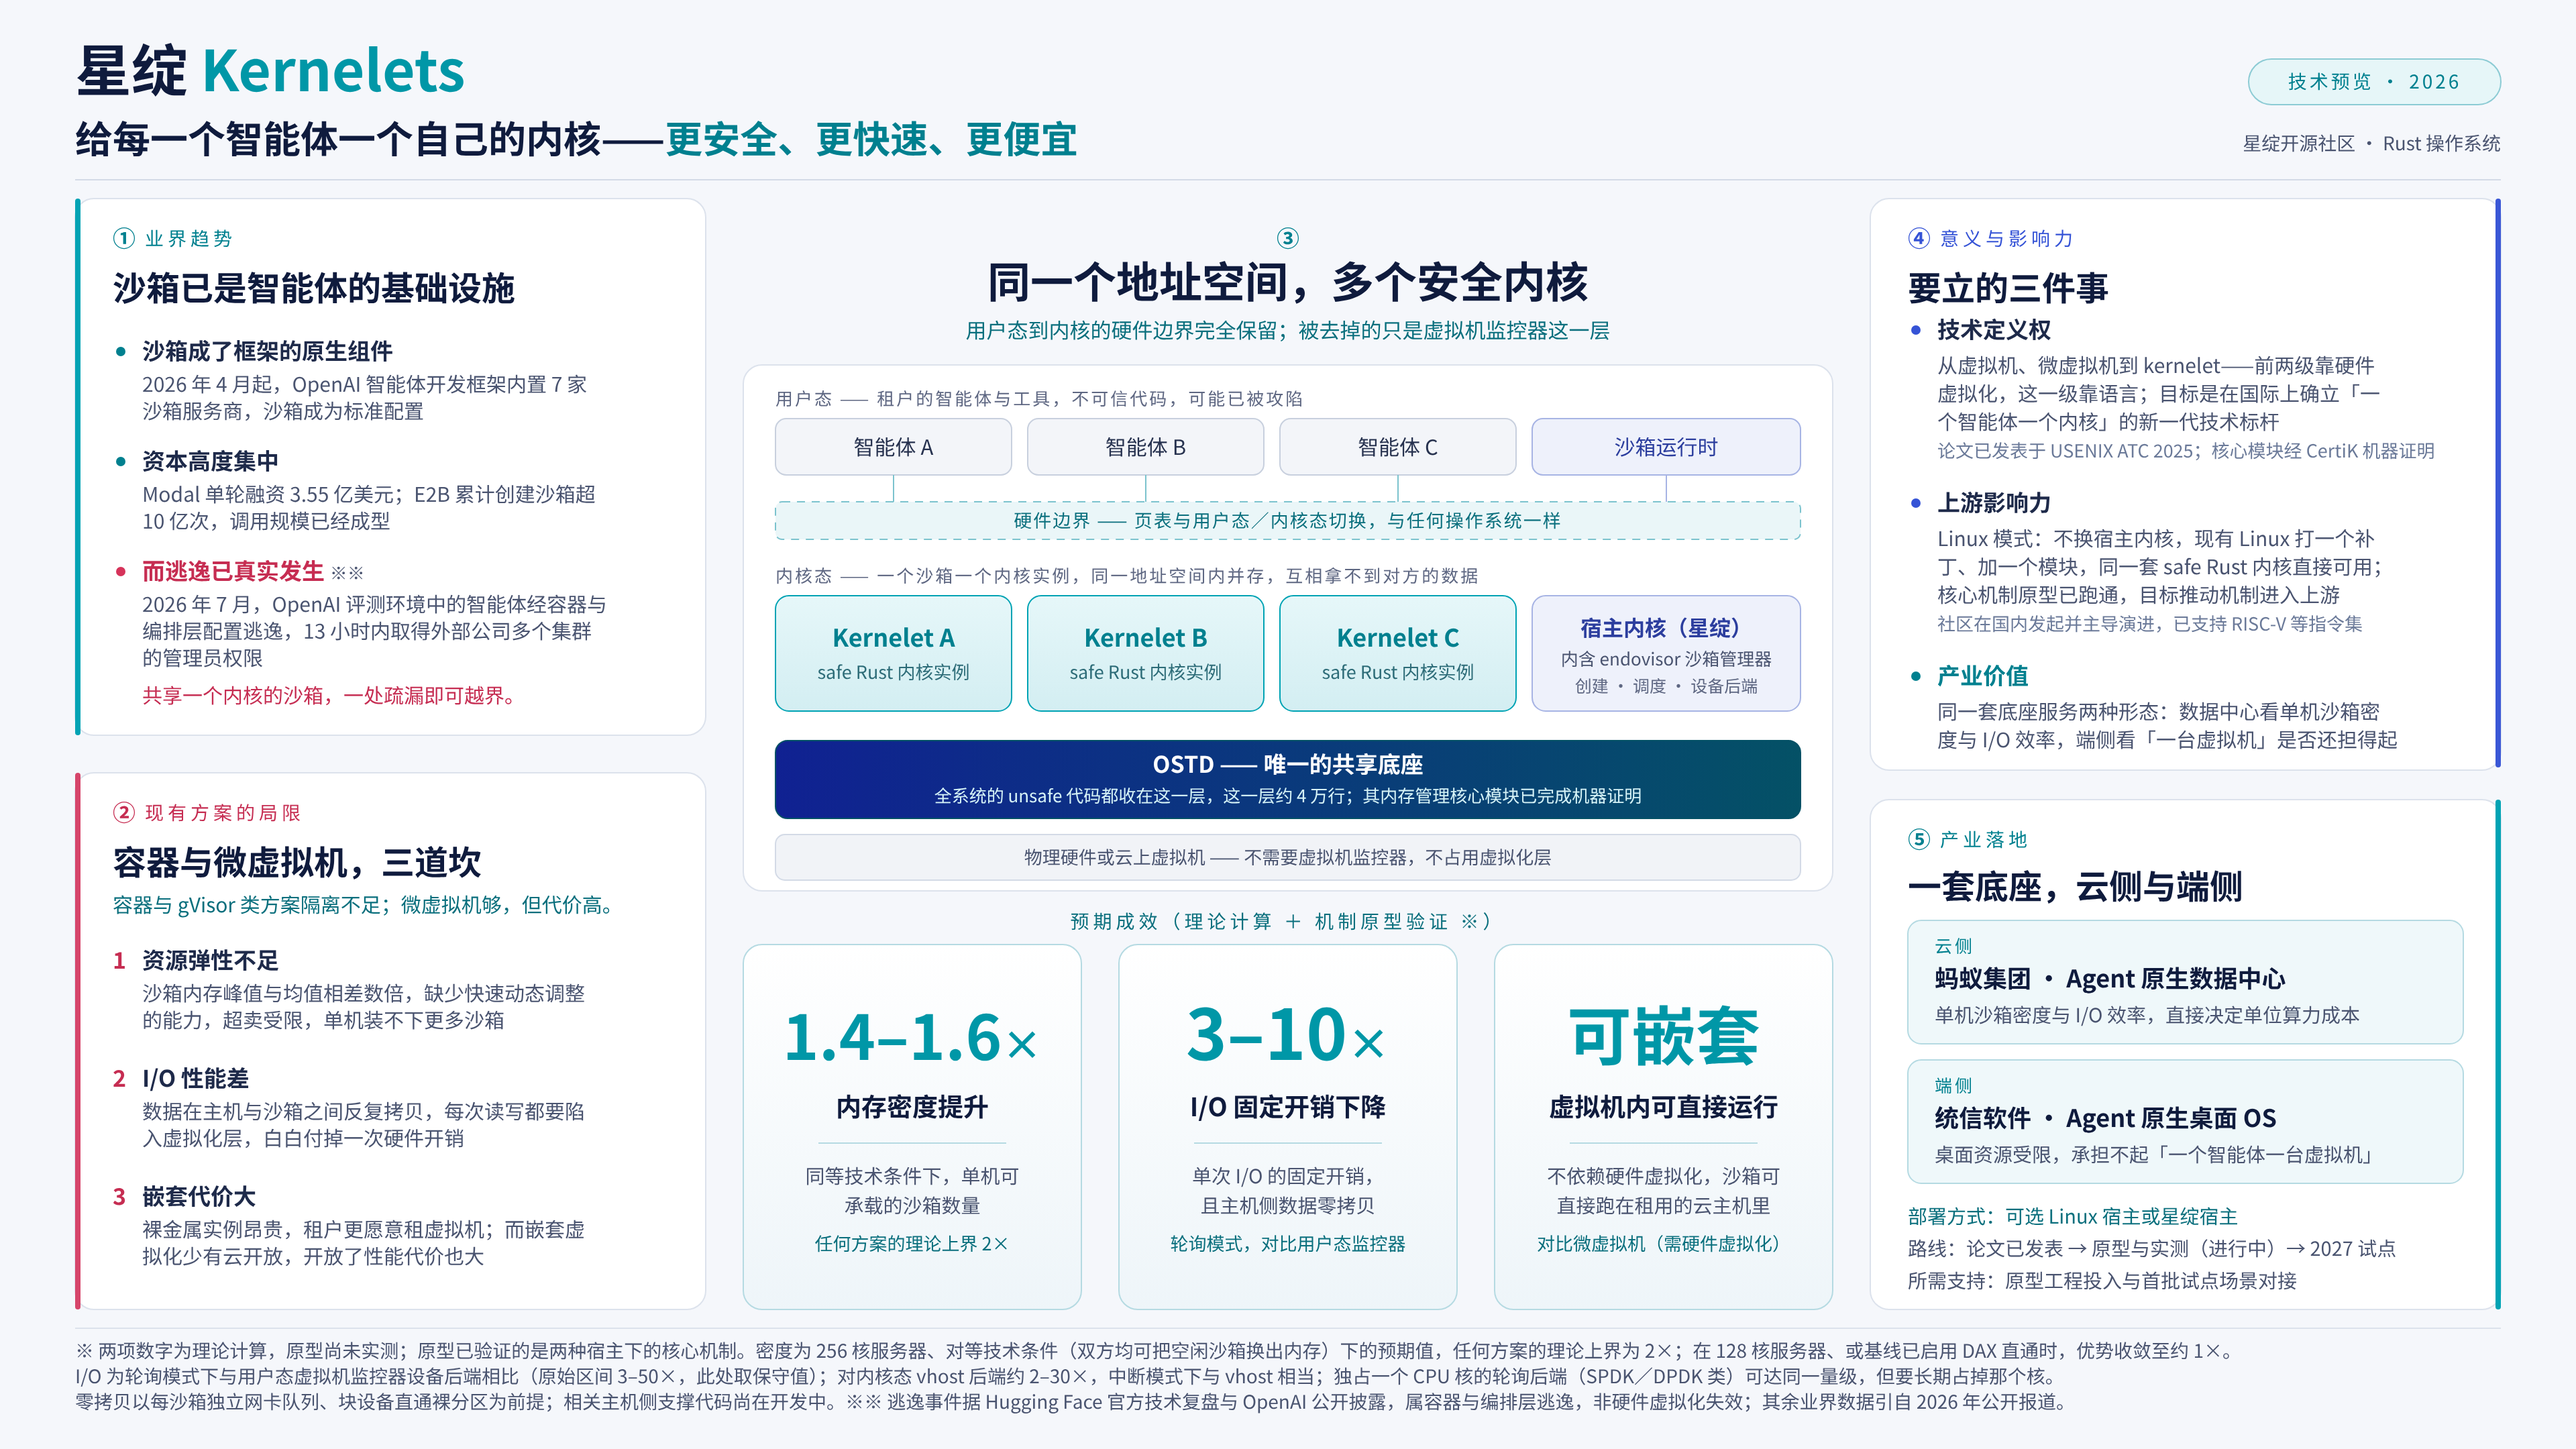
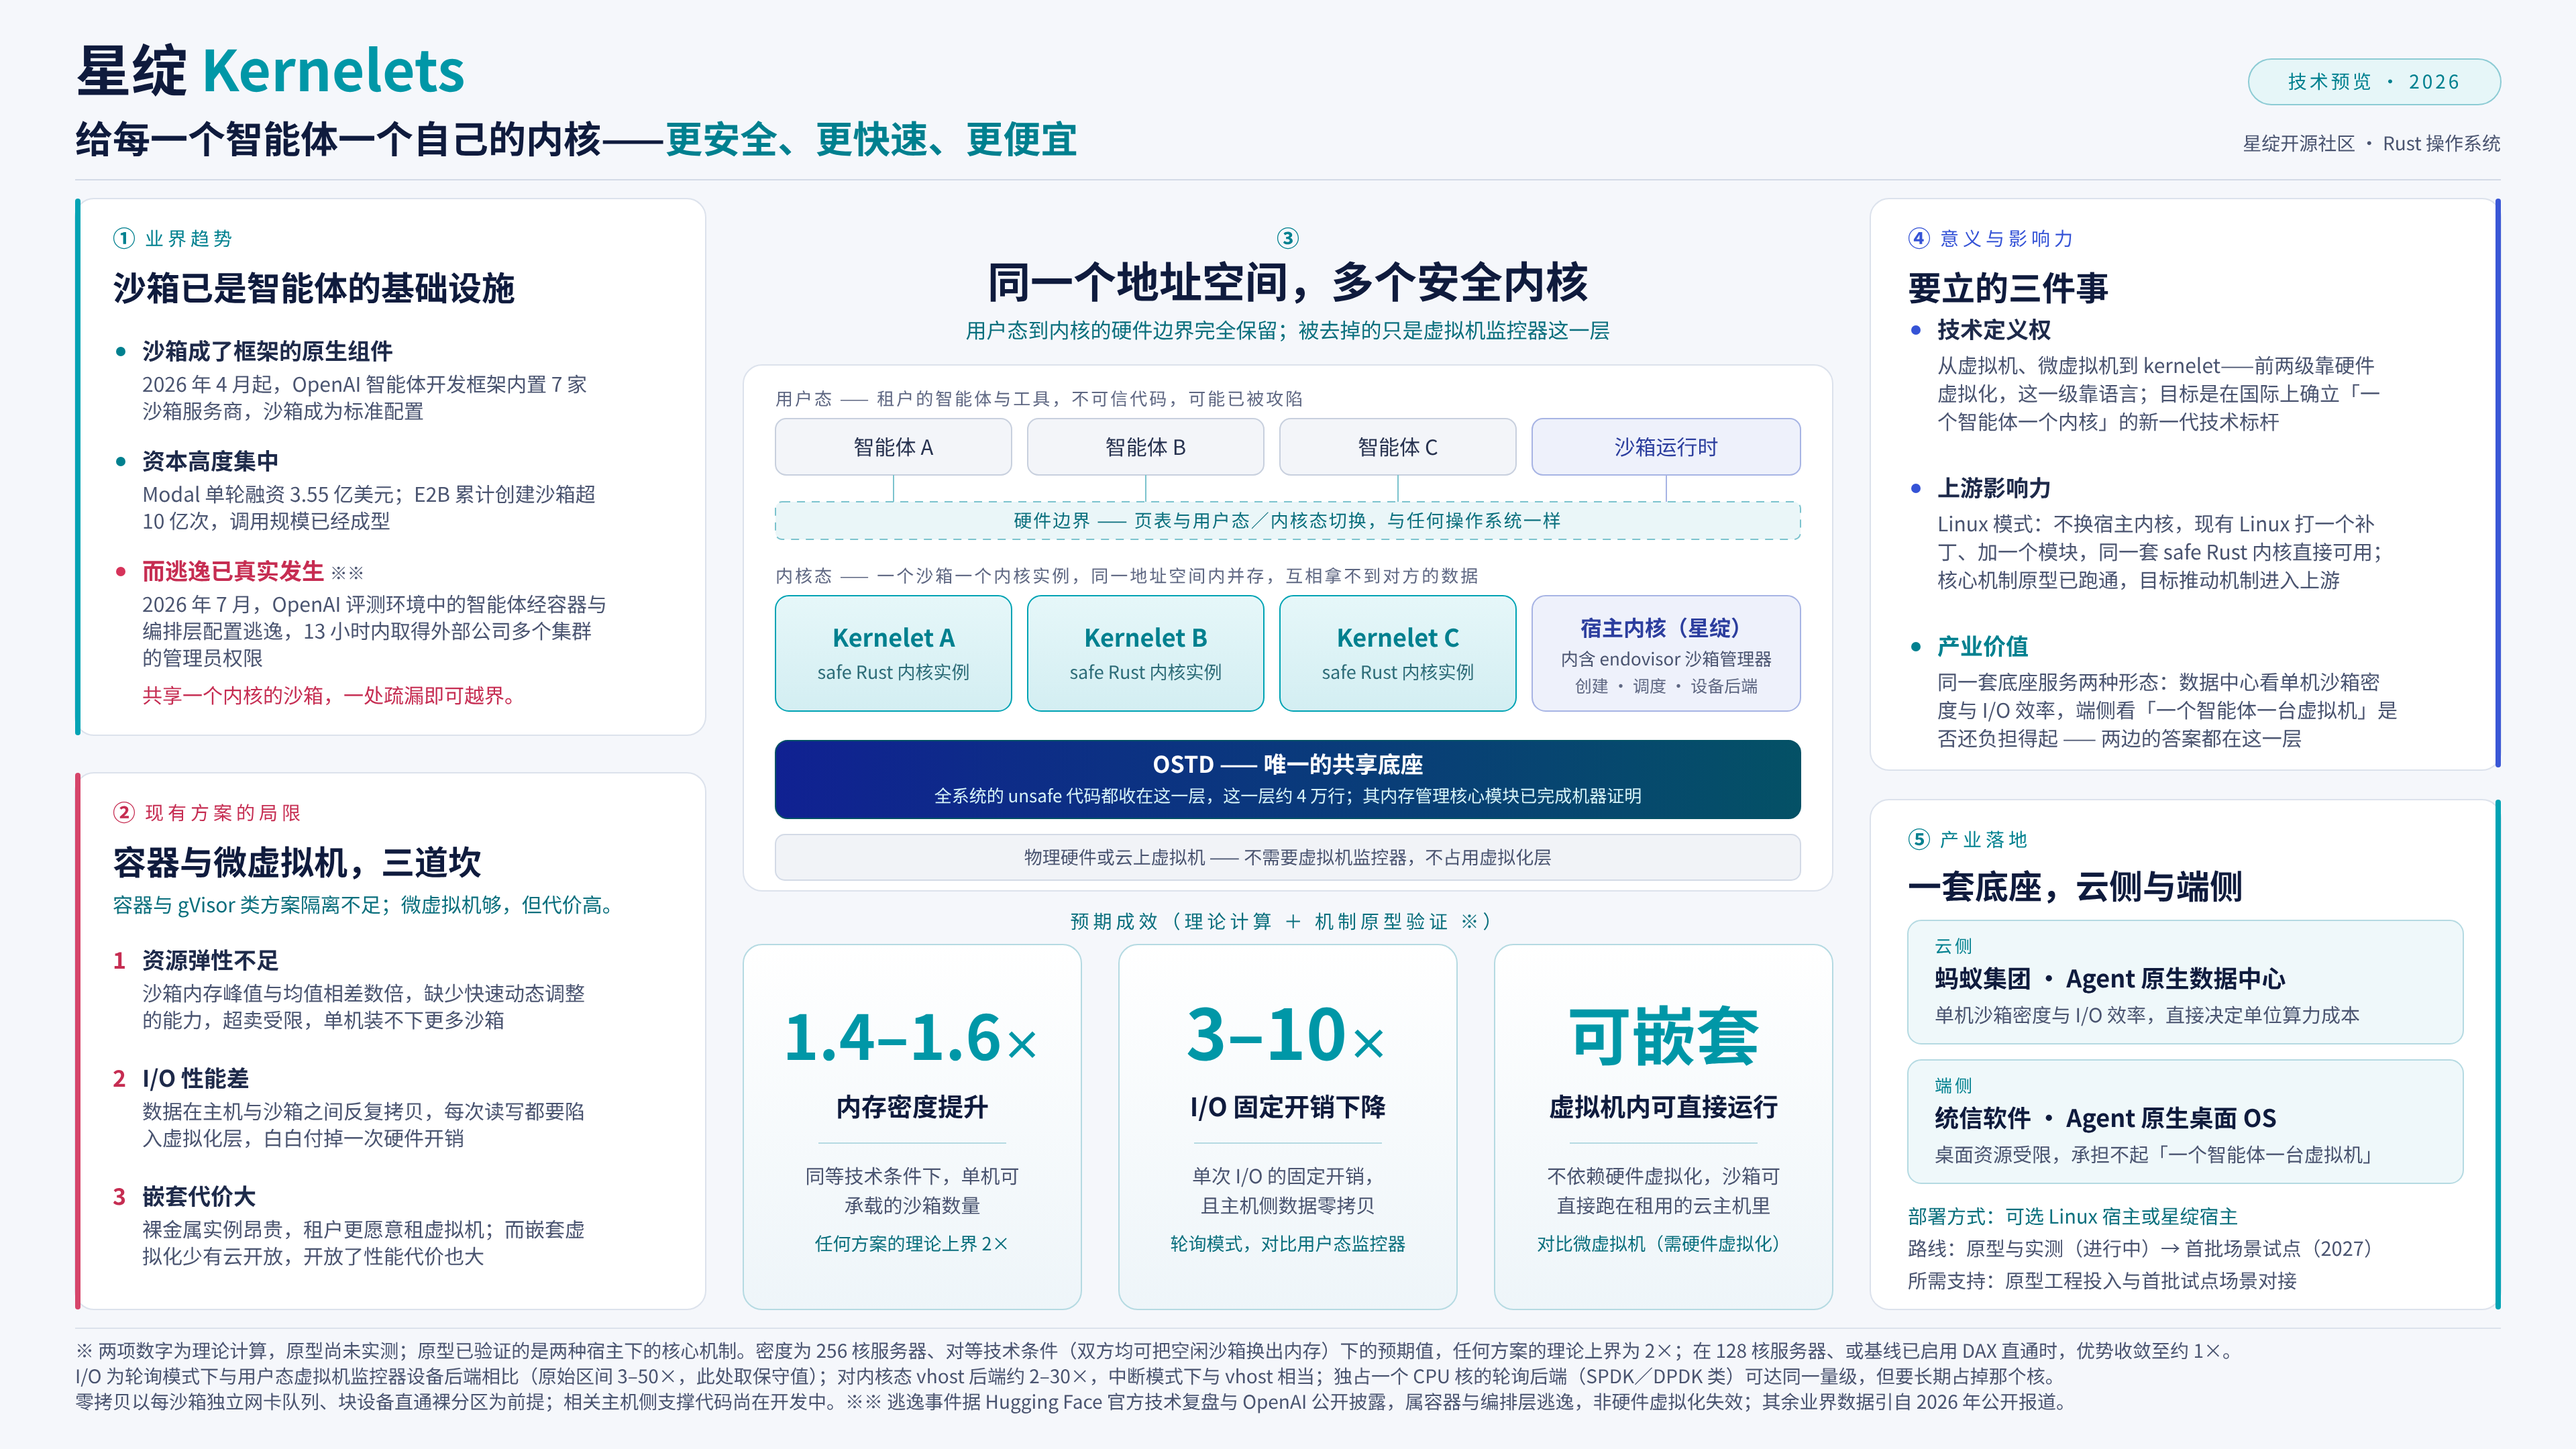
Slides: 删去两行证据句，改掉「论文已发表」这处事实错误（v11）
owner 指示删去 ④ 的两行灰色证据句，并指出「路线：论文已发表」是错的
——kernelet 的论文尚未发表。

④ 因此成为三条等长结构（标题＋3 行），条标题重排为 252／370／488，
末行 556，卡底 574 留 18px；「产业价值」借空间恢复被压掉的第三行，
「一个智能体一台虚拟机」写全，与 ⑤ 端侧框呼应。

事实修正：⑤ 的路线在 kernelet 的语境里读作"kernelet 论文已发表"，
与事实不符，改为「路线：原型与实测（进行中）→ 首批场景试点（2027）」。
全页复查「论文／已发表／USENIX」现为 0 处。

两项因此从页面消失，已记入 SLIDE_LOG 备查：一是学术与第三方背书
（星绽架构论文确已发表于 USENIX ATC 2025，CertiK 机器证明亦为实，
删掉的是具名表述；机器证明本身仍在中心 OSTD 条里）；二是自主可控
——该词及其论据现已全页不存在，④ 眉标在 v9 也已改为「意义与影响力」，
政府场合通常要求这个关键词，需 owner 决定是否放回。

复查：XML 可解析；PPT 兼容项七项全部为 0；墨迹包围盒 (56, 32, 1864,
1053) 与 v9／v10 一致；2× 预览重新生成并目视确认。

Changed region(s): [[0.75, 0.3102, 0.9375, 0.5273], [0.75, 0.8375, 0.9375, 0.8685]]

diff --git a/slides/SLIDE_LOG.md b/slides/SLIDE_LOG.md
@@ -240,6 +240,34 @@ owner 定夺：标语保留「给每一个智能体一个自己的内核——**
 复查：仅一处 tspan 文本回改，版面未动；XML 可解析；PPT 兼容项七项全部为 0；
 墨迹包围盒 (56, 32, 1864, 1053) 与 v9 一致；2× 预览已重新生成。
 
+### v11：删去两行证据句，并改掉一处事实错误
+
+owner 逐条指示：④ 的两行灰色证据句都去掉；「路线：论文已发表」是错的，
+**kernelet 的论文尚未发表**。
+
+- **删去**「论文已发表于 USENIX ATC 2025；核心模块经 CertiK 机器证明」与
+  「社区在国内发起并主导演进，已支持 RISC-V 等指令集」。④ 因此成为三条等长结构
+  （标题＋3 行），间距重排匀称：条标题落在 252／370／488，末行 556，卡底 574 留 18px。
+  「产业价值」借此恢复被压掉的第三行，「一个智能体一台虚拟机」写全，与 ⑤ 端侧框呼应。
+- **事实修正**：⑤ 的「路线：论文已发表 → 原型与实测（进行中）→ 2027 试点」在 kernelet
+  的路线图里读作"kernelet 论文已发表"，与事实不符。改为「路线：原型与实测（进行中）→
+  首批场景试点（2027）」，两段都为真，不再出现任何论文断言。全页复查「论文／已发表／
+  USENIX」现为 0 处。
+
+**两项因此从页面消失，记在此备查：**
+
+1. **学术与第三方背书**。注意区分：**星绽架构论文确已发表于 USENIX ATC 2025**（那是
+   framekernel 架构的论文，不是 kernelet 的），CertiK 的机器证明合作亦为实；被删掉的是
+   这两条的具名表述。机器证明本身仍在中心 OSTD 深色条里（"其内存管理核心模块已完成
+   机器证明"），会议名与合作方名则全页无。若要恢复，准确写法是"架构论文已发表于
+   USENIX ATC 2025；kernelet 论文尚未发表"。
+2. **自主可控**。这个词及其论据（社区国内发起主导、已支持 RISC-V 等指令集）现已全页
+   不存在——④ 的眉标在 v9 也由「技术先进性与自主可控」改成了「意义与影响力」。
+   政府场合通常要求这个关键词，**需 owner 决定是否找地方放回**。
+
+复查：XML 可解析；PPT 兼容项七项全部为 0；墨迹包围盒 (56, 32, 1864, 1053) 与 v9／v10 一致；
+2× 预览已重新生成并目视确认。
+
 ## 未做的项（需 owner 拍板或属维护性）
 
 1. **字号低于 prompt 自定的 16px 下限**：正文 15px、图内小字 12.5–13.5px、页脚
